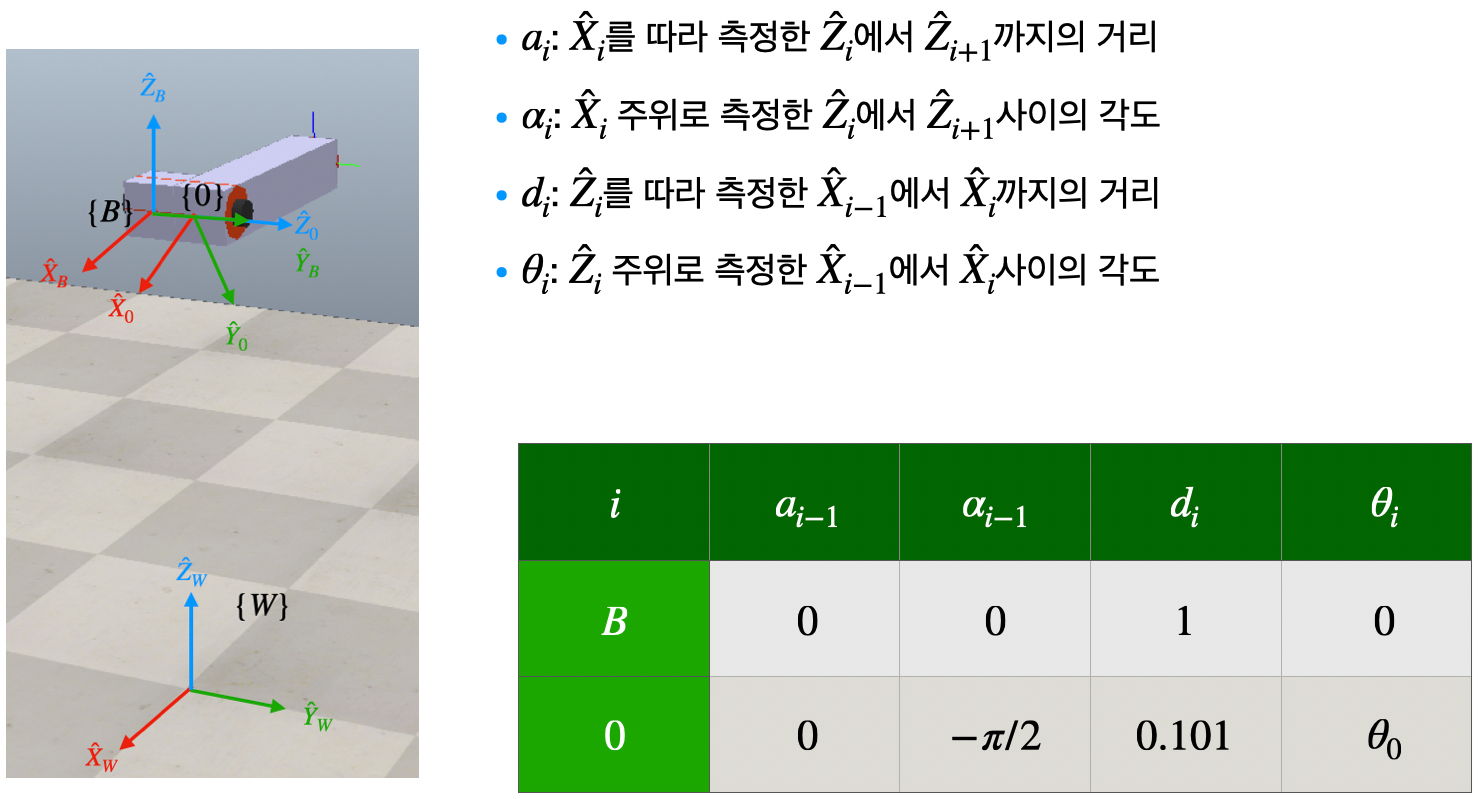
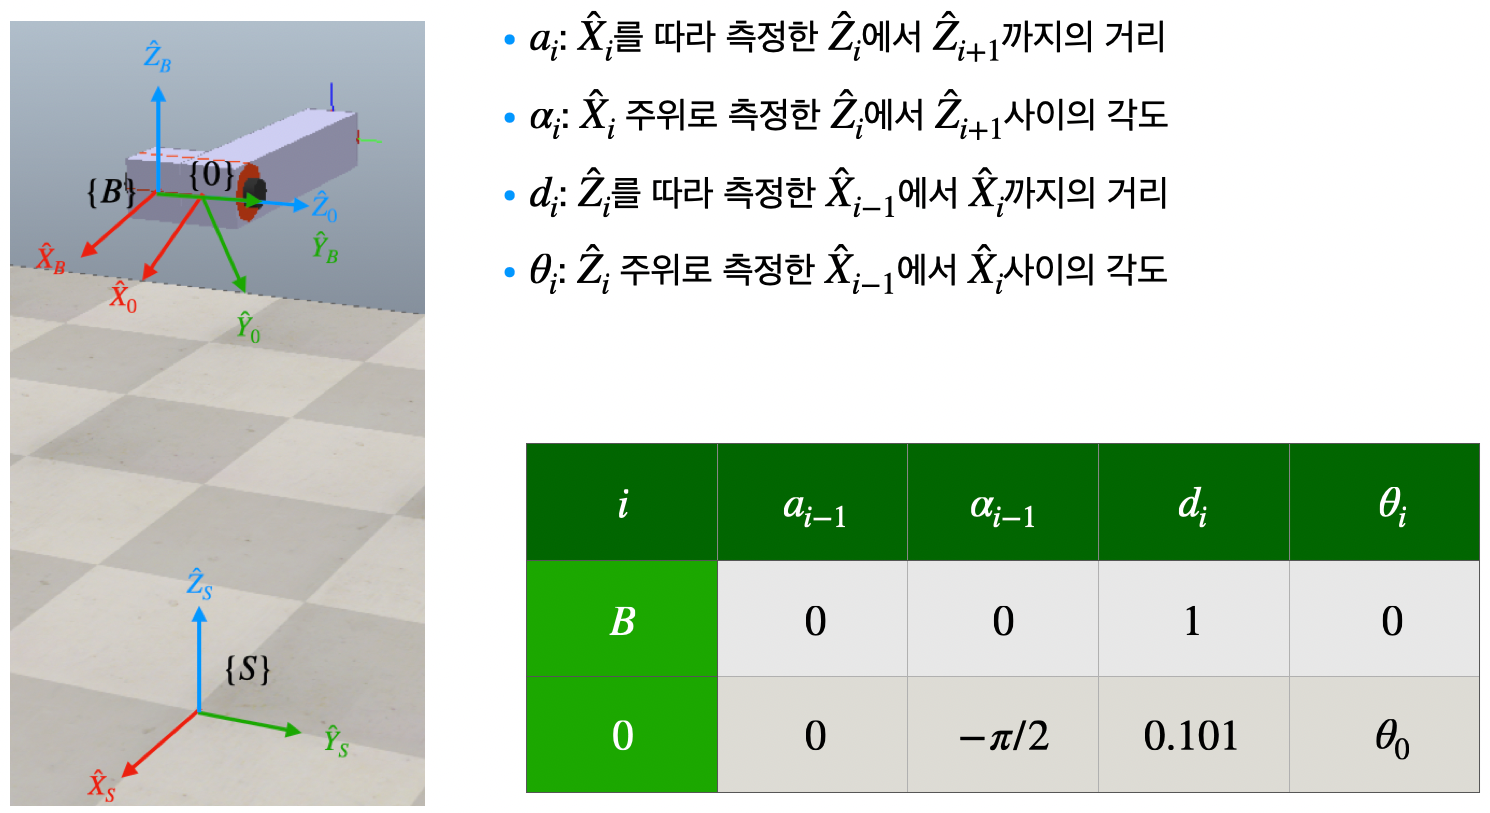
Rename from World Frame to Station Frame

diff --git a/pendulum_1d/sympy_analysis.py b/pendulum_1d/sympy_analysis.py
@@ -42,17 +42,18 @@ def forward_kinematics():
     alpha_B, a_B, theta_0, d_0 = sy.symbols("alpha_B, a_B, theta_0, d_0", real=True)
 
     print("*" * 10, "forward_kinematics", "*" * 10)
-    T_WB = dh_transformation(alpha_W, a_W, theta_B, d_B)
-    print(f"T_WB: {T_WB}")
-    T_WB = (
-        T_WB.subs([(alpha_W, 0)]).subs([(a_W, 0)]).subs([(theta_B, 0)]).subs([(d_B, 1)])
+    T_SB = dh_transformation(alpha_W, a_W, theta_B, d_B)
+    print(f"T_SB = {T_SB}")
+    T_SB = (
+        T_SB.subs([(alpha_W, 0)]).subs([(a_W, 0)]).subs([(theta_B, 0)]).subs([(d_B, 1)])
     )
-    print(f"T_WB: {T_WB}")
+    print(f"T_SB = {T_SB}")
+    print()
 
     T_B0 = dh_transformation(alpha_B, a_B, theta_0, d_0)
-    print(f"T_B0: {T_B0}")
+    print(f"T_B0 = {T_B0}")
     T_B0 = T_B0.subs([(alpha_B, -sy.pi / 2)]).subs([(a_B, 0)]).subs([(d_0, 0.101)])
-    print(f"T_B0: {T_B0}")
+    print(f"T_B0 = {T_B0}")
 
 
 def main():

diff --git a/pendulum_1d/inverse_kinematics.py b/pendulum_1d/inverse_kinematics.py
@@ -43,7 +43,7 @@ class IKPendulum(Pendulum1D):
         return np.array(C1)
 
     def fk(self, theta_0):
-        T_WB = np.array([[1, 0, 0, 0], [0, 1, 0, 0], [0, 0, 1, 1], [0, 0, 0, 1]])
+        T_SB = np.array([[1, 0, 0, 0], [0, 1, 0, 0], [0, 0, 1, 1], [0, 0, 0, 1]])
         T_B0 = np.array(
             [
                 [np.cos(theta_0), -np.sin(theta_0), 0, 0],
@@ -52,7 +52,7 @@ class IKPendulum(Pendulum1D):
                 [0, 0, 0, 1],
             ]
         )
-        C1_hat = T_WB @ T_B0 @ np.array([-0.45, 0.0, 0.0, 1])
+        C1_hat = T_SB @ T_B0 @ np.array([-0.45, 0.0, 0.0, 1])
         return C1_hat[:-1]
 
     def ik(self, thetas, params):

diff --git a/pendulum_1d/forward_kinematics.py b/pendulum_1d/forward_kinematics.py
@@ -31,7 +31,7 @@ class FKPendulum(Pendulum1D):
         return np.array(C1)
 
     def fk(self, theta_0):
-        T_WB = np.array([[1, 0, 0, 0], [0, 1, 0, 0], [0, 0, 1, 1], [0, 0, 0, 1]])
+        T_SB = np.array([[1, 0, 0, 0], [0, 1, 0, 0], [0, 0, 1, 1], [0, 0, 0, 1]])
         T_B0 = np.array(
             [
                 [np.cos(theta_0), -np.sin(theta_0), 0, 0],
@@ -40,7 +40,7 @@ class FKPendulum(Pendulum1D):
                 [0, 0, 0, 1],
             ]
         )
-        C1_hat = T_WB @ T_B0 @ np.array([-0.45, 0.0, 0.0, 1])
+        C1_hat = T_SB @ T_B0 @ np.array([-0.45, 0.0, 0.0, 1])
         return C1_hat[:-1]
 
     def run_step(self, count):
